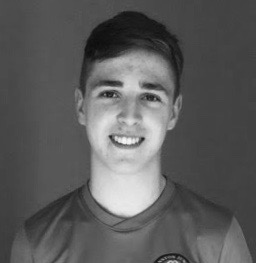
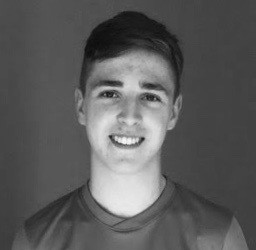
Sorting image, added a tab for resume

diff --git a/index.html b/index.html
@@ -17,7 +17,6 @@
 					<header id="header">
 
 						<div class="logo">
-							<img src="images/Portfolio Picture.jpg" height="100%" width="100%" alt="" />
 						</div>
 
 						<div class="content">
@@ -31,6 +30,7 @@
 								<li><a href="#intro">Intro</a></li>
 								<li><a href="#work">Work</a></li>
 								<li><a href="#about">About</a></li>
+									<li><a href="#resume">resume</a></li>
 								<li><a href="#contact">Contact</a></li>
 								<!--<li><a href="#elements">Elements</a></li>-->
 							</ul>
@@ -43,9 +43,10 @@
 						<!-- Intro -->
 							<article id="intro">
 								<h2 class="major">Intro</h2>
-								<span class="image main"><img src="images/pic01.jpg" alt="" /></span>
-								<p>Aenean ornare velit lacus, ac varius enim ullamcorper eu. Proin aliquam facilisis ante interdum congue. Integer mollis, nisl amet convallis, porttitor magna ullamcorper, amet egestas mauris. Ut magna finibus nisi nec lacinia. Nam maximus erat id euismod egestas. By the way, check out my <a href="#work">awesome work</a>.</p>
-								<p>Lorem ipsum dolor sit amet, consectetur adipiscing elit. Duis dapibus rutrum facilisis. Class aptent taciti sociosqu ad litora torquent per conubia nostra, per inceptos himenaeos. Etiam tristique libero eu nibh porttitor fermentum. Nullam venenatis erat id vehicula viverra. Nunc ultrices eros ut ultricies condimentum. Mauris risus lacus, blandit sit amet venenatis non, bibendum vitae dolor. Nunc lorem mauris, fringilla in aliquam at, euismod in lectus. Pellentesque habitant morbi tristique senectus et netus et malesuada fames ac turpis egestas. In non lorem sit amet elit placerat maximus. Pellentesque aliquam maximus risus, vel sed vehicula.</p>
+								<span class="image main">	<img src="images/Portfolio Picture.jpg" height="100%" alt="" /></span>
+								<p> Hi, my name is James. <br>
+									I am currently on my second year of Computer Game Development at Staffordshire University. <br>
+									Check out my <a href="#work">awesome work</a>.</p>
 							</article>
 
 						<!-- Work -->
@@ -62,6 +63,10 @@
 								<span class="image main"><img src="images/pic03.jpg" alt="" /></span>
 								<p>Lorem ipsum dolor sit amet, consectetur et adipiscing elit. Praesent eleifend dignissim arcu, at eleifend sapien imperdiet ac. Aliquam erat volutpat. Praesent urna nisi, fringila lorem et vehicula lacinia quam. Integer sollicitudin mauris nec lorem luctus ultrices. Aliquam libero et malesuada fames ac ante ipsum primis in faucibus. Cras viverra ligula sit amet ex mollis mattis lorem ipsum dolor sit amet.</p>
 							</article>
+
+								<!-- resume -->
+								<article id="resume">
+								</article>
 
 						<!-- Contact -->
 							<article id="contact">
